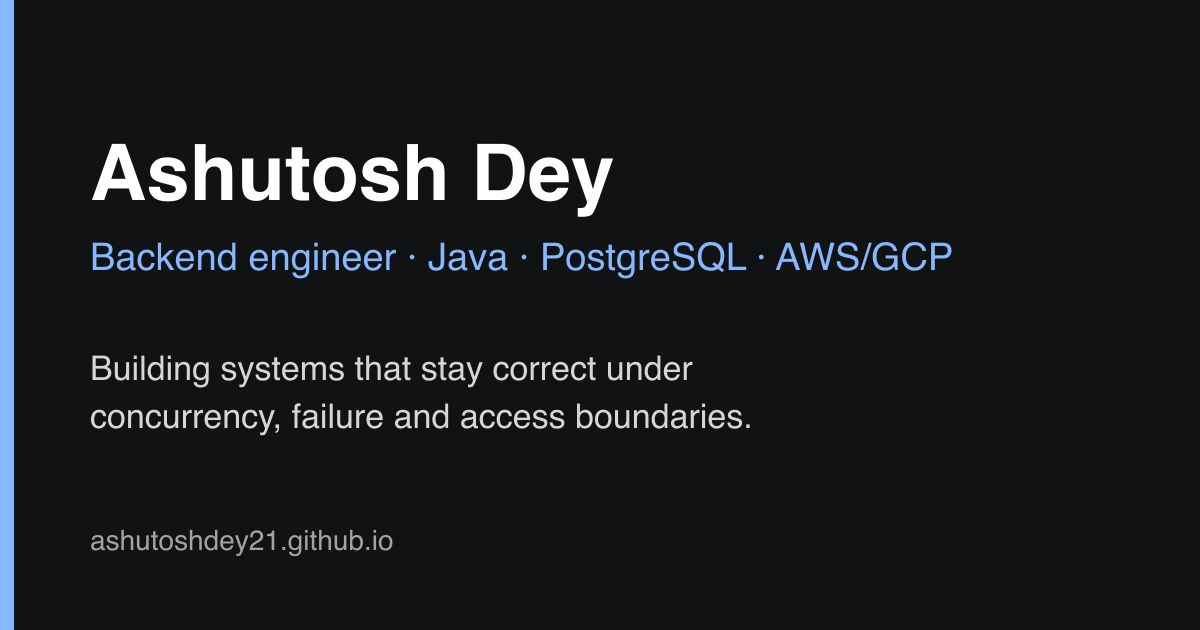
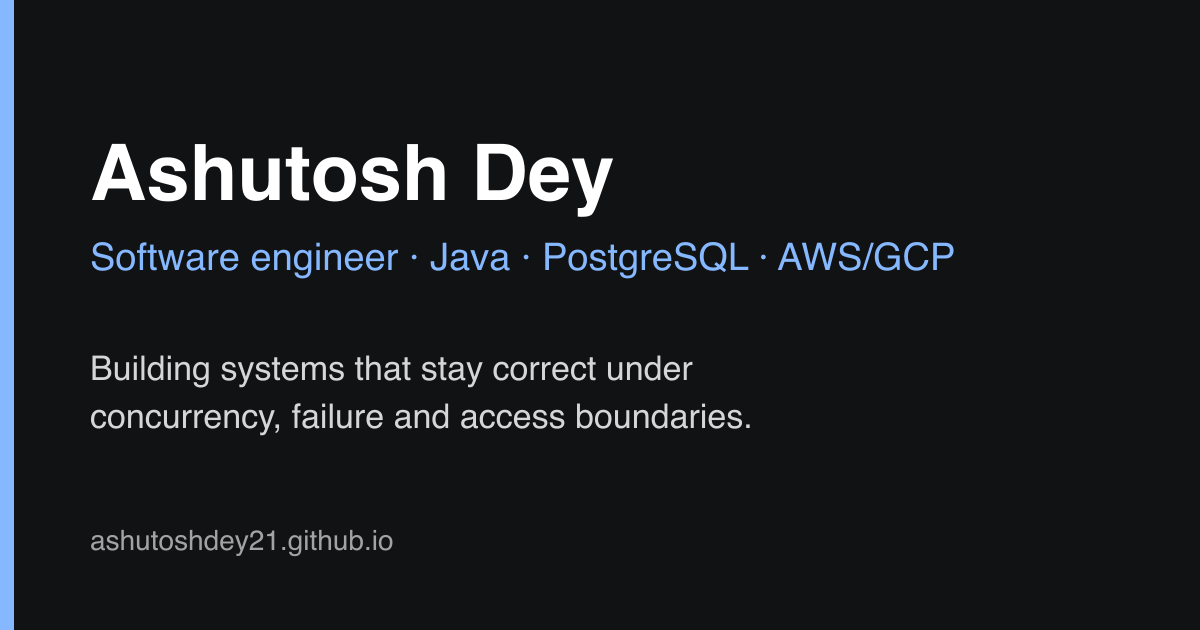
Use 'software engineer' instead of 'backend engineer' as the title

Changed region(s): [[0.0617, 0.3619, 0.6167, 0.4524], [0.6475, 0.3619, 0.8017, 0.4524]]

diff --git a/CLAUDE.md b/CLAUDE.md
@@ -7,7 +7,7 @@ Public Astro site on GitHub Pages. Local `PLAN.md` (gitignored) has the full pla
 - Private source of truth: `/Users/ashutoshdey/projects/resume-work/data/`. **Read-only. Never write there, never copy raw files here, never commit raw data (not even temporarily).**
 - Only public-safe, reviewed, hand-curated content goes in `src/content/`.
 - **Zero fabrication:** every claim traces to a line in `data/*.md`, `resume-work/resume.tex`, `resume-work/linkedin-profile-draft.md` (user-confirmed facts), or something the user stated. No invented numbers, scope words ("owned", "led", "end-to-end") or technologies. Use "built", "implemented", "migrated" only as far as the source says.
-- Positioning: one through-line ("Backend engineer building systems that stay correct under concurrency, failure and access boundaries") plus five lenses: `platform`, `integrity`, `integration`, `reliability`, `ai-engineering`. Config lives in `src/data/positioning.yaml`. `ai-engineering` is the thinnest evidence; never the headline. Usage and impact numbers only as the user's stated estimates, labelled "by my estimate" (see SOURCES.md).
+- Positioning: one through-line ("Software engineer building systems that stay correct under concurrency, failure and access boundaries") plus five lenses: `platform`, `integrity`, `integration`, `reliability`, `ai-engineering`. Config lives in `src/data/positioning.yaml`. `ai-engineering` is the thinnest evidence; never the headline. Usage and impact numbers only as the user's stated estimates, labelled "by my estimate" (see SOURCES.md).
 
 ## Decisions (user, 2026-11-26)
 - Thryv/Keap and product names may be used. Excluded: ticket IDs, internal repo names, feature-flag names, internal URLs, anything about a private individual (do not use common-achievements item #5).
